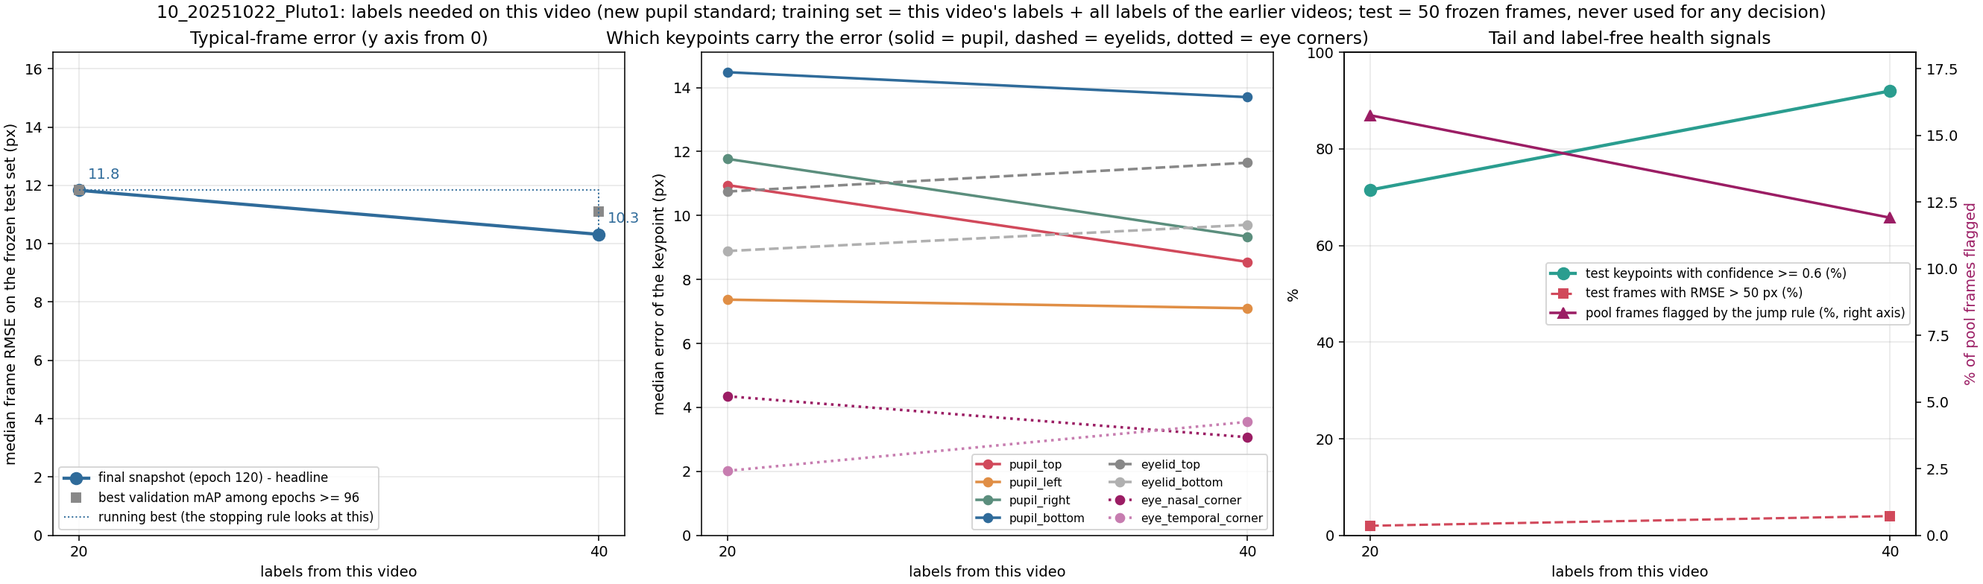
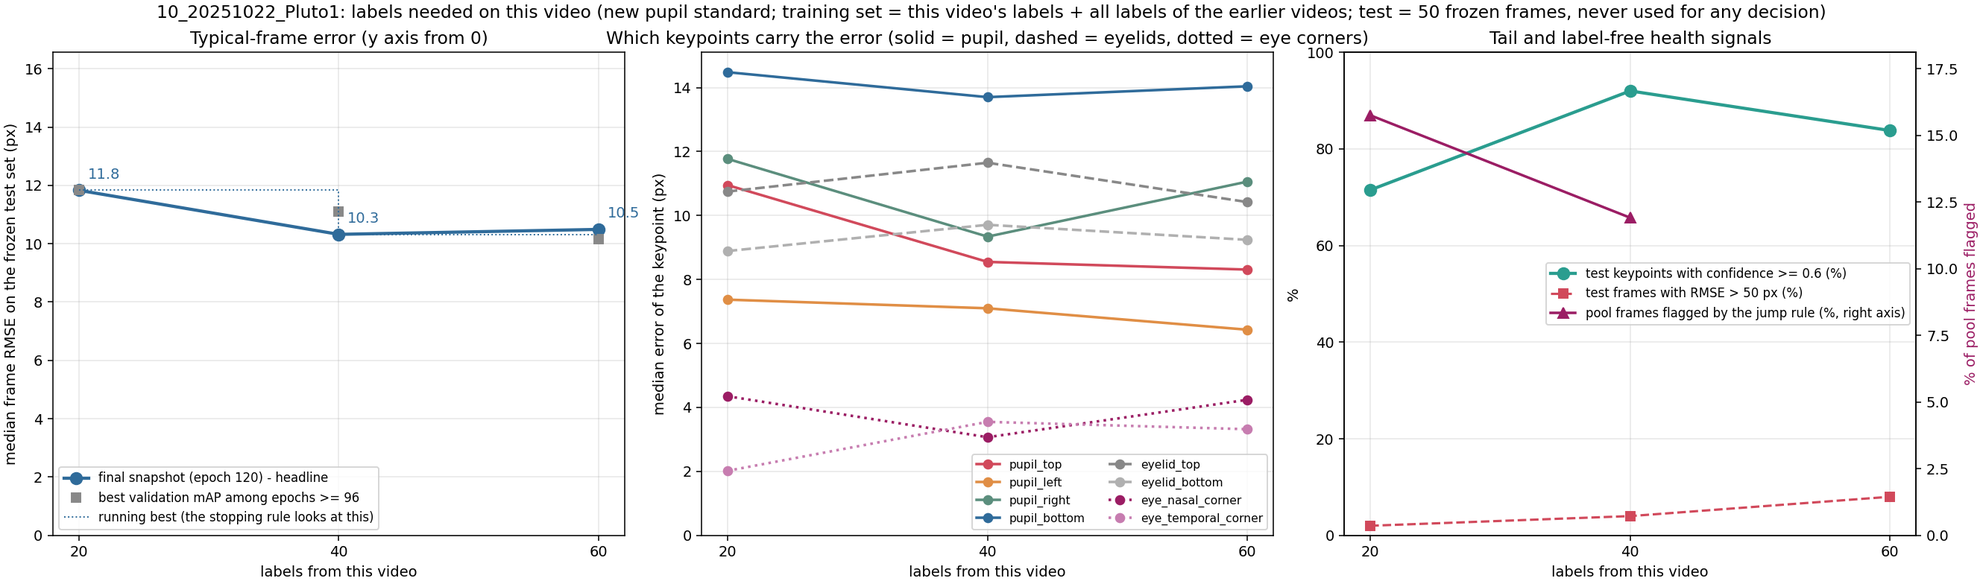
Video 10 step 3 (60 labels, model 1113): 10.49 px, no gain over 10.32 (first flat step)
Claude-Session: https://claude.ai/code/session_017MK5SWBFFQAu8ejFk1z7fh

diff --git a/report/index.html b/report/index.html
@@ -480,7 +480,7 @@ CHANGELOG.md                         one row per tag
 </div>
 
 <script>
-const DATA = {"scaling": [{"n": 20, "rmse": 38.3}, {"n": 50, "rmse": 41.9}, {"n": 100, "rmse": 55.9}], "batch": [{"batch": 2, "rmse": 21.07, "val_loss": 0.01107, "conf": 375}, {"batch": 4, "rmse": 22.28, "val_loss": 0.01112, "conf": 280}, {"batch": 8, "rmse": 23.61, "val_loss": 0.01186, "conf": 131}, {"batch": 16, "rmse": 21.37, "val_loss": 0.01136, "conf": 111}], "model": [{"model": "ResNet-50", "rmse": 20.1, "val_loss": 0.01107, "conf": 514, "hours": 1.73}, {"model": "HRNet-W32", "rmse": 21.1, "val_loss": 0.01107, "conf": 375, "hours": 3.69}, {"model": "HRNet-W48", "rmse": 24.7, "val_loss": 0.01114, "conf": 99, "hours": 6.61}, {"model": "CSPNeXt-S", "rmse": 35.4, "val_loss": 0.011, "conf": 75, "hours": 0.6}, {"model": "HRNet-W18", "rmse": 47.9, "val_loss": 0.01099, "conf": 121, "hours": 2.44}], "al": {"fitting": [{"n": 80, "rmse": 16.77}, {"n": 100, "rmse": 16.52}, {"n": 120, "rmse": 17.41}, {"n": 140, "rmse": 16.88}, {"n": 160, "rmse": 17.15}, {"n": 180, "rmse": 16.89}, {"n": 200, "rmse": 17.2}, {"n": 220, "rmse": 17.08}, {"n": 240, "rmse": 17.5}, {"n": 260, "rmse": 16.85}, {"n": 280, "rmse": 16.87}, {"n": 300, "rmse": 16.97}], "jump": [{"n": 80, "rmse": 16.77}, {"n": 100, "rmse": 16.71}, {"n": 120, "rmse": 16.25}, {"n": 140, "rmse": 15.81}, {"n": 160, "rmse": 16.5}, {"n": 180, "rmse": 16.42}, {"n": 200, "rmse": 16.33}, {"n": 220, "rmse": 15.88}, {"n": 240, "rmse": 16.41}, {"n": 260, "rmse": 17.01}, {"n": 280, "rmse": 16.5}, {"n": 300, "rmse": 16.6}], "uncertain": [{"n": 80, "rmse": 16.77}, {"n": 100, "rmse": 17.54}, {"n": 120, "rmse": 17.06}, {"n": 140, "rmse": 16.71}, {"n": 160, "rmse": 16.8}, {"n": 180, "rmse": 16.39}, {"n": 200, "rmse": 16.57}, {"n": 220, "rmse": 16.57}, {"n": 240, "rmse": 16.56}, {"n": 260, "rmse": 16.54}, {"n": 280, "rmse": 16.91}, {"n": 300, "rmse": 16.62}]}, "al_range": [15.81, 17.54], "scale": [{"n": 0, "rmse": 185.18, "p90": 249.81, "fail": 88.1, "conf": 43}, {"n": 20, "rmse": 13.83, "p90": 44.6, "fail": 10.2, "conf": 62}, {"n": 40, "rmse": 12.04, "p90": 27.58, "fail": 8.5, "conf": 70}, {"n": 60, "rmse": 10.41, "p90": 97.56, "fail": 13.6, "conf": 83}, {"n": 80, "rmse": 10.12, "p90": 28.18, "fail": 5.1, "conf": 91}, {"n": 100, "rmse": 10.72, "p90": 26.06, "fail": 6.8, "conf": 87}], "scale_seed2": [{"n": 20, "rmse": 11.67, "p90": 26.32}, {"n": 40, "rmse": 11.79, "p90": 93.47}, {"n": 60, "rmse": 10.53, "p90": 46.33}], "scale_default_rule": [{"n": 20, "rmse": 12.08, "rule": "best validation mAP -> epoch 70"}, {"n": 40, "rmse": 101.74, "rule": "best validation mAP -> epoch 20 (undertrained; pupil_left fails on 53% of test frames)"}, {"n": 60, "rmse": 12.53, "rule": "best validation mAP (best-30)"}, {"n": 80, "rmse": 10.56, "rule": "best validation mAP -> epoch 50 (best-50)"}], "flagged": [{"n": 0, "pct": 77.8, "frames": 44484}, {"n": 20, "pct": 26.4, "frames": 15064}, {"n": 40, "pct": 21.4, "frames": 12254}, {"n": 60, "pct": 19.3, "frames": 11051}, {"n": 80, "pct": 15.0, "frames": 8555}], "n_test": 59, "blink_example": {"t": [231.9, 231.917, 231.933, 231.95, 231.967, 231.983, 232.0, 232.017, 232.033, 232.05, 232.067, 232.083, 232.1, 232.117, 232.133, 232.15, 232.167, 232.183, 232.2, 232.217, 232.233, 232.25, 232.267, 232.283, 232.3, 232.317, 232.333, 232.35, 232.367, 232.383, 232.4, 232.417, 232.433, 232.45, 232.467, 232.483, 232.5, 232.517, 232.533, 232.55, 232.567, 232.583, 232.6, 232.617, 232.633, 232.65, 232.667, 232.683, 232.7, 232.717, 232.733, 232.75, 232.767, 232.783, 232.8, 232.817, 232.833, 232.85, 232.867, 232.883, 232.9, 232.917, 232.933, 232.95, 232.967, 232.983, 233.0, 233.017, 233.033, 233.05, 233.067, 233.083, 233.1, 233.117, 233.133, 233.15, 233.167, 233.183, 233.2, 233.217, 233.233, 233.25, 233.267, 233.283, 233.3, 233.317, 233.333, 233.35, 233.367, 233.383, 233.4, 233.417, 233.433, 233.45, 233.467, 233.483, 233.5, 233.517, 233.533, 233.55, 233.567, 233.583, 233.6, 233.617, 233.633, 233.65, 233.667, 233.683, 233.7, 233.717, 233.733, 233.75, 233.767, 233.783, 233.8, 233.817, 233.833, 233.85, 233.867, 233.883, 233.9, 233.917, 233.933, 233.95, 233.967, 233.983, 234.0, 234.017, 234.033, 234.05, 234.067, 234.083, 234.1, 234.117, 234.133, 234.15, 234.167, 234.183, 234.2, 234.217, 234.233, 234.25, 234.267, 234.283, 234.3, 234.317, 234.333, 234.35, 234.367, 234.383, 234.4, 234.417, 234.433, 234.45, 234.467, 234.483, 234.5, 234.517, 234.533, 234.55, 234.567, 234.583, 234.6, 234.617, 234.633, 234.65, 234.667, 234.683, 234.7, 234.717, 234.733, 234.75, 234.767, 234.783, 234.8, 234.817, 234.833, 234.85, 234.867, 234.883], "raw": [69122, 68737, 69304, 68804, 67240, 67087, 63331, 61095, 59527, 59727, 59834, 59985, 61109, 61980, 62674, 62251, 62329, 62951, 62415, 61634, 61648, 61958, 62098, 63234, 62164, 61834, 61306, 61284, 61891, 63438, 61913, 61934, 62653, 62387, 62651, 63159, 63460, 62820, 63810, 63560, 63224, 63780, 63776, 63873, 64025, 64117, 63813, 65148, 65371, 64381, 64022, 64318, 64549, 64117, 63498, 63544, 63076, 64466, 63245, 63775, 64184, 63404, 64122, 64535, 64585, 63077, 64186, 63491, 62686, 60629, 60235, 59795, 63163, 61228, 60564, 60875, 58323, 56384, 56374, 56186, 54493, 54271, 52051, 46264, 42908, 40282, 38832, 39063, 35719, 36195, 36742, 35888, 35195, 35063, 37152, 43149, 43512, 48313, 50892, 53096, 53190, 53636, 55021, 55199, 55074, 56411, 56076, 57539, 56558, 57202, 56931, 58422, 59361, 59370, 59584, 58834, 59436, 59366, 60573, 59866, 60701, 60681, 60372, 60873, 61213, 61841, 61221, 61432, 62227, 61981, 61810, 61109, 62406, 62077, 62183, 62825, 62407, 63271, 65273, 64723, 63604, 63776, 64326, 64068, 63156, 63628, 63945, 62811, 63131, 63499, 62969, 64045, 63652, 63372, 63393, 63020, 63316, 63853, 63513, 63692, 63092, 63246, 62494, 63162, 63507, 63545, 63167, 63109, 63071, 63942, 63209, 63484, 63501, 62952, 62230, 62982, 63231, 62882, 63056, 62869], "filled": [69122, 68737, 69304, 68804, 67240, 67087, 63331, 61095, 59527, 59727, 59834, 59985, 61109, 61980, 62674, 62251, 62329, 62951, 62415, 61634, 61648, 61958, 62098, 63234, 62164, 61834, 61306, 61284, 61891, 63438, 61913, 61934, 62653, 62387, 62651, 63159, 63460, 62820, 63810, 63560, 63224, 63780, 63776, 63873, 64025, 64117, 63813, 65148, 65371, 64381, 64022, 64318, 64549, 64117, 63498, 63544, 63076, 64466, 63245, 63775, 64184, 63404, 64122, 64535, 64585, 63077, 64186, 63491, 62686, 60629, 60235, 60215, 60194, 60173, 60152, 60131, 60110, 60090, 60069, 60048, 60027, 60006, 59986, 59965, 59944, 59923, 59902, 59881, 59861, 59840, 59819, 59798, 59777, 59757, 59736, 59715, 59694, 59673, 59652, 59632, 59611, 59590, 59569, 59548, 59528, 59507, 59486, 59465, 59444, 59423, 59403, 59382, 59361, 59370, 59584, 58834, 59436, 59366, 60573, 59866, 60701, 60681, 60372, 60873, 61213, 61841, 61221, 61432, 62227, 61981, 61810, 61109, 62406, 62077, 62183, 62825, 62407, 62444, 62481, 62517, 62554, 62591, 62627, 62664, 62701, 62738, 62774, 62811, 63131, 63499, 62969, 64045, 63652, 63372, 63393, 63020, 63316, 63853, 63513, 63692, 63092, 63246, 62494, 63162, 63507, 63545, 63167, 63109, 63071, 63942, 63209, 63484, 63501, 62952, 62230, 62982, 63231, 62882, 63056, 62869], "open": [0.983, 0.992, 0.997, 1.009, 1.008, 0.988, 0.991, 0.98, 0.984, 0.996, 0.989, 0.996, 1.001, 1.013, 1.017, 1.02, 1.018, 1.024, 1.019, 1.024, 1.021, 1.02, 1.022, 1.013, 1.012, 1.014, 1.004, 1.01, 1.015, 1.026, 1.011, 1.027, 1.027, 1.03, 1.027, 1.031, 1.036, 1.03, 1.028, 1.029, 1.031, 1.029, 1.025, 1.031, 1.031, 1.037, 1.033, 1.03, 1.034, 1.04, 1.038, 1.042, 1.036, 1.035, 1.031, 1.033, 1.029, 1.037, 1.027, 1.03, 1.022, 1.032, 1.032, 1.029, 1.011, 1.003, 0.999, 1.002, 0.998, 0.986, 0.98, 0.979, 0.97, 0.969, 0.947, 0.936, 0.911, 0.928, 0.931, 0.927, 0.92, 0.916, 0.871, 0.839, 0.819, 0.792, 0.751, 0.752, 0.738, 0.76, 0.779, 0.677, 0.661, 0.673, 0.667, 0.706, 0.756, 0.787, 0.919, 0.89, 0.907, 0.917, 0.92, 0.929, 0.93, 0.952, 0.952, 0.95, 0.95, 0.957, 0.958, 0.968, 0.967, 0.968, 0.966, 0.972, 0.967, 0.97, 0.985, 0.981, 0.983, 0.989, 0.99, 0.99, 0.99, 0.983, 0.994, 0.988, 0.997, 0.994, 0.996, 1.003, 0.994, 0.998, 0.996, 1.001, 0.997, 0.997, 1.0, 0.999, 1.001, 0.99, 0.997, 1.009, 0.997, 1.007, 0.998, 1.004, 1.004, 0.997, 1.008, 0.999, 1.0, 0.998, 0.998, 0.999, 1.0, 1.001, 1.0, 1.004, 0.999, 0.995, 0.999, 0.996, 1.0, 1.001, 1.0, 0.997, 1.003, 0.994, 0.999, 1.001, 1.003, 1.002, 0.999, 0.999, 0.999, 1.001, 1.001, 0.999], "bad": [false, false, false, false, false, false, false, false, false, false, false, false, false, false, false, false, false, false, false, false, false, false, false, false, false, false, false, false, false, false, false, false, false, false, false, false, false, false, false, false, false, false, false, false, false, false, false, false, false, false, false, false, false, false, false, false, false, false, false, false, false, false, false, false, false, false, false, false, false, false, false, true, true, true, true, true, true, true, true, true, true, true, true, true, true, true, true, true, true, true, true, true, true, true, true, true, true, true, true, true, true, true, true, true, true, true, true, true, true, true, true, true, false, false, false, false, false, false, false, false, false, false, false, false, false, false, false, false, false, false, false, false, false, false, false, false, false, true, true, true, true, true, true, true, true, true, true, false, false, false, false, false, false, false, false, false, false, false, false, false, false, false, false, false, false, false, false, false, false, false, false, false, false, false, false, false, false, false, false, false]}, "blink_stats": {"frames": 14400, "untrusted": 1287, "runs": 86, "longest_s": 0.9}, "keypoints_px": {"pupil_top": [51.4, 27.7], "pupil_bottom": [52.5, 71.6], "pupil_left": [29.4, 40.1], "pupil_right": [74.2, 44.9], "eyelid_top": [52.2, 21.7], "eyelid_bottom": [52.5, 78.5], "eye_nasal_corner": [21.5, 35.3], "eye_temporal_corner": [79.4, 45.1]}, "blink_strip_t": [232.77, 233.43, 234.18], "videos": [{"video": 0, "unit": "0_first5minvedio", "mouse": "mouse A", "date": "5-min", "final": true, "plateau_n": 60, "plateau_px": 12.04, "zero": null, "steps": [{"n": 20, "rmse": 12.93, "p90": 23.9, "fail": 4, "conf": 69}, {"n": 40, "rmse": 13.0, "p90": 18.6, "fail": 2, "conf": 81}, {"n": 60, "rmse": 12.04, "p90": 17.0, "fail": 0, "conf": 89}, {"n": 80, "rmse": 13.07, "p90": 19.2, "fail": 2, "conf": 90}, {"n": 100, "rmse": 12.29, "p90": 17.8, "fail": 0, "conf": 93}], "subsets": [{"n": 5, "rmse": 78.53, "p90": 273.8, "fail": 70, "conf": 13, "tag": "05a"}, {"n": 5, "rmse": 81.5, "p90": 144.6, "fail": 72, "conf": 16, "tag": "05b"}, {"n": 10, "rmse": 20.48, "p90": 189.9, "fail": 14, "conf": 44, "tag": "10a"}, {"n": 10, "rmse": 20.84, "p90": 47.1, "fail": 8, "conf": 43, "tag": "10b"}], "jump": [{"n": 20, "pct": 6.8}, {"n": 40, "pct": 3.5}, {"n": 60, "pct": 2.1}, {"n": 80, "pct": 2.8}, {"n": 100, "pct": 2.1}], "labeled": 100, "carried": 100}, {"video": 1, "unit": "1_20251031_Pluto_spont_1", "mouse": "Pluto", "date": "2025-10-31", "final": true, "plateau_n": 20, "plateau_px": 10.37, "zero": 208.23, "steps": [{"n": 20, "rmse": 10.37, "p90": 21.6, "fail": 4, "conf": 59}, {"n": 40, "rmse": 12.17, "p90": 20.3, "fail": 0, "conf": 75}, {"n": 60, "rmse": 11.35, "p90": 19.7, "fail": 2, "conf": 74}, {"n": 80, "rmse": 11.59, "p90": 19.8, "fail": 0, "conf": 82}, {"n": 100, "rmse": 10.94, "p90": 19.3, "fail": 0, "conf": 89}, {"n": 120, "rmse": 11.7, "p90": 18.4, "fail": 0, "conf": 95}, {"n": 140, "rmse": 12.09, "p90": 18.7, "fail": 0, "conf": 89}], "subsets": [{"n": 5, "rmse": 96.02, "p90": 123.4, "fail": 56, "conf": 34, "tag": "05a"}, {"n": 5, "rmse": 41.38, "p90": 221.9, "fail": 48, "conf": 15, "tag": "05b"}, {"n": 10, "rmse": 20.17, "p90": 123.5, "fail": 42, "conf": 67, "tag": "10a"}, {"n": 10, "rmse": 16.12, "p90": 168.5, "fail": 34, "conf": 39, "tag": "10b"}], "jump": [{"n": 20, "pct": 21.1}, {"n": 40, "pct": 10.9}, {"n": 60, "pct": 6.2}, {"n": 80, "pct": 6.2}, {"n": 100, "pct": 5.5}, {"n": 120, "pct": 4.4}, {"n": 140, "pct": 4.6}], "labeled": 140, "carried": 100}, {"video": 2, "unit": "2_20251031_Pluto_spont_3", "mouse": "Pluto", "date": "2025-10-31", "final": true, "plateau_n": 20, "plateau_px": 7.73, "zero": 9.99, "steps": [{"n": 20, "rmse": 7.73, "p90": 26.4, "fail": 8, "conf": 85}, {"n": 40, "rmse": 7.57, "p90": 25.1, "fail": 2, "conf": 89}, {"n": 60, "rmse": 7.83, "p90": 22.8, "fail": 8, "conf": 90}, {"n": 80, "rmse": 7.56, "p90": 19.7, "fail": 2, "conf": 92}], "subsets": [{"n": 5, "rmse": 8.22, "p90": 48.0, "fail": 10, "conf": 80, "tag": "05a"}, {"n": 5, "rmse": 11.5, "p90": 96.6, "fail": 18, "conf": 81, "tag": "05b"}, {"n": 10, "rmse": 10.46, "p90": 85.2, "fail": 22, "conf": 84, "tag": "10a"}, {"n": 10, "rmse": 9.85, "p90": 78.4, "fail": 12, "conf": 86, "tag": "10b"}], "jump": [{"n": 20, "pct": 9.3}, {"n": 40, "pct": 5.8}, {"n": 60, "pct": 5.7}], "labeled": 80, "carried": 60}, {"video": 3, "unit": "3_20251031_Pluto_spont_2", "mouse": "Pluto", "date": "2025-10-31", "final": true, "plateau_n": 20, "plateau_px": 3.4, "zero": 4.43, "steps": [{"n": 20, "rmse": 3.4, "p90": 21.3, "fail": 0, "conf": 96}, {"n": 40, "rmse": 3.87, "p90": 15.8, "fail": 0, "conf": 95}, {"n": 60, "rmse": 3.63, "p90": 10.2, "fail": 0, "conf": 96}], "subsets": [{"n": 5, "rmse": 3.82, "p90": 22.9, "fail": 0, "conf": 94, "tag": "05a"}, {"n": 5, "rmse": 3.91, "p90": 15.3, "fail": 0, "conf": 92, "tag": "05b"}, {"n": 10, "rmse": 3.81, "p90": 21.7, "fail": 0, "conf": 94, "tag": "10a"}, {"n": 10, "rmse": 3.48, "p90": 22.5, "fail": 0, "conf": 92, "tag": "10b"}], "jump": [{"n": 20, "pct": 6.4}, {"n": 40, "pct": 5.8}, {"n": 60, "pct": 6.8}], "labeled": 60, "carried": 60}, {"video": 4, "unit": "4_20251030_Pluto_spont_1", "mouse": "Pluto", "date": "2025-10-30", "final": true, "plateau_n": 40, "plateau_px": 15.01, "zero": 32.11, "steps": [{"n": 20, "rmse": 24.64, "p90": 45.1, "fail": 6, "conf": 72}, {"n": 40, "rmse": 15.01, "p90": 24.1, "fail": 2, "conf": 90}, {"n": 60, "rmse": 16.82, "p90": 25.1, "fail": 2, "conf": 79}, {"n": 80, "rmse": 17.54, "p90": 44.7, "fail": 8, "conf": 86}], "subsets": [{"n": 5, "rmse": 30.74, "p90": 50.1, "fail": 10, "conf": 85, "tag": "05a"}, {"n": 5, "rmse": 32.21, "p90": 52.0, "fail": 14, "conf": 83, "tag": "05b"}, {"n": 10, "rmse": 45.31, "p90": 62.4, "fail": 42, "conf": 81, "tag": "10a"}, {"n": 10, "rmse": 44.75, "p90": 61.5, "fail": 32, "conf": 80, "tag": "10b"}], "jump": [{"n": 20, "pct": 30.9}, {"n": 40, "pct": 12.5}, {"n": 60, "pct": 14.1}], "labeled": 80, "carried": 40}, {"video": 5, "unit": "5_20251029_Pluto_spont_1", "mouse": "Pluto", "date": "2025-10-29", "final": true, "plateau_n": 20, "plateau_px": 15.85, "zero": 11.9, "steps": [{"n": 20, "rmse": 15.85, "p90": 20.2, "fail": 0, "conf": 90}, {"n": 40, "rmse": 16.58, "p90": 22.0, "fail": 0, "conf": 91}], "subsets": [{"n": 5, "rmse": 13.04, "p90": 19.9, "fail": 0, "conf": 79, "tag": "05a"}, {"n": 5, "rmse": 9.42, "p90": 13.2, "fail": 4, "conf": 78, "tag": "05b"}, {"n": 10, "rmse": 12.56, "p90": 18.1, "fail": 0, "conf": 90, "tag": "10a"}, {"n": 10, "rmse": 12.73, "p90": 19.6, "fail": 4, "conf": 80, "tag": "10b"}], "jump": [{"n": 20, "pct": 7.6}], "labeled": 40, "carried": 20}, {"video": 6, "unit": "6_20251028_Pluto_spont_1", "mouse": "Pluto", "date": "2025-10-28", "final": true, "plateau_n": 20, "plateau_px": 6.75, "zero": 9.36, "steps": [{"n": 20, "rmse": 6.75, "p90": 11.2, "fail": 0, "conf": 83}, {"n": 40, "rmse": 8.46, "p90": 11.8, "fail": 0, "conf": 90}, {"n": 60, "rmse": 10.68, "p90": 14.9, "fail": 2, "conf": 82}], "subsets": [], "jump": [{"n": 20, "pct": 11.9}, {"n": 40, "pct": 8.7}], "labeled": 60, "carried": 20}, {"video": 7, "unit": "7_20251027_Pluto_spont1", "mouse": "Pluto", "date": "2025-10-27", "final": true, "plateau_n": 0, "plateau_px": 5.36, "zero": 5.36, "steps": [{"n": 20, "rmse": 5.86, "p90": 7.6, "fail": 0, "conf": 100}, {"n": 40, "rmse": 5.84, "p90": 8.2, "fail": 0, "conf": 100}], "subsets": [], "jump": [{"n": 20, "pct": 1.6}], "labeled": 40, "carried": 0}, {"video": 8, "unit": "8_20251024_Pluto_spont1", "mouse": "Pluto", "date": "2025-10-24", "final": true, "plateau_n": 20, "plateau_px": 25.34, "zero": 27.46, "steps": [{"n": 20, "rmse": 25.34, "p90": 50.6, "fail": 14, "conf": 68}, {"n": 40, "rmse": 30.03, "p90": 50.4, "fail": 12, "conf": 89}, {"n": 60, "rmse": 33.77, "p90": 52.0, "fail": 16, "conf": 84}], "subsets": [{"n": 5, "rmse": 31.05, "p90": 192.4, "fail": 30, "conf": 68, "tag": "05a"}, {"n": 5, "rmse": 31.48, "p90": 196.4, "fail": 28, "conf": 59, "tag": "05b"}, {"n": 10, "rmse": 23.48, "p90": 50.8, "fail": 12, "conf": 71, "tag": "10a"}, {"n": 10, "rmse": 22.42, "p90": 45.8, "fail": 6, "conf": 74, "tag": "10b"}], "jump": [{"n": 20, "pct": 17.0}, {"n": 40, "pct": 15.3}], "labeled": 60, "carried": 20}, {"video": 9, "unit": "9_20251023_Pluto1", "mouse": "Pluto", "date": "2025-10-23", "final": true, "plateau_n": 80, "plateau_px": 8.2, "zero": 23.41, "steps": [{"n": 20, "rmse": 10.39, "p90": 24.3, "fail": 8, "conf": 55}, {"n": 40, "rmse": 8.55, "p90": 19.6, "fail": 0, "conf": 86}, {"n": 60, "rmse": 8.67, "p90": 14.8, "fail": 0, "conf": 78}, {"n": 80, "rmse": 8.2, "p90": 14.8, "fail": 0, "conf": 86}, {"n": 100, "rmse": 9.39, "p90": 15.5, "fail": 0, "conf": 83}, {"n": 120, "rmse": 8.63, "p90": 15.8, "fail": 0, "conf": 90}], "subsets": [{"n": 5, "rmse": 11.74, "p90": 23.2, "fail": 6, "conf": 69, "tag": "05a"}, {"n": 5, "rmse": 12.62, "p90": 20.9, "fail": 8, "conf": 80, "tag": "05b"}, {"n": 10, "rmse": 11.55, "p90": 19.1, "fail": 0, "conf": 62, "tag": "10a"}, {"n": 10, "rmse": 11.07, "p90": 23.8, "fail": 0, "conf": 66, "tag": "10b"}], "jump": [{"n": 20, "pct": 18.1}, {"n": 40, "pct": 11.3}, {"n": 60, "pct": 10.1}, {"n": 80, "pct": 10.7}, {"n": 100, "pct": 9.1}, {"n": 120, "pct": 8.3}], "labeled": 120, "carried": 80}, {"video": 10, "unit": "10_20251022_Pluto1", "mouse": "Pluto", "date": "2025-10-22", "final": false, "plateau_n": 40, "plateau_px": 10.32, "zero": 18.13, "steps": [{"n": 20, "rmse": 11.83, "p90": 27.7, "fail": 2, "conf": 72}, {"n": 40, "rmse": 10.32, "p90": 26.1, "fail": 4, "conf": 92}], "subsets": [], "jump": [{"n": 20, "pct": 15.8}, {"n": 40, "pct": 11.9}], "labeled": 40, "carried": null}], "area": [{"video": "0 (mouse A)", "e3": 6.5, "e4": 2.2, "anchored": false}, {"video": "1 (10-31)", "e3": 6.7, "e4": 6.2, "anchored": false}, {"video": "2 (10-31)", "e3": 3.1, "e4": 4.4, "anchored": false}, {"video": "3 (10-31)", "e3": 12.8, "e4": 3.2, "anchored": false}, {"video": "4 (10-30, poor)", "e3": 16.9, "e4": 13.5, "anchored": false}, {"video": "5 (10-29)", "e3": 2.5, "e4": 1.9, "anchored": true}, {"video": "6 (10-28)", "e3": 9.9, "e4": 1.6, "anchored": true}, {"video": "7 (10-27)", "e3": 3.3, "e4": 0.2, "anchored": true}], "blink3": {"closed": 16, "open": 687, "auc": {"min_conf": 1.0, "open_rel": 0.94, "centre_off": 0.92, "lid_rel": 0.9, "aspect": 0.36}, "hit": 1.0, "false_alarm": 0.55}, "coupling": [0.69, 0.94], "built": "2026-10-02", "label_px": {"pupil_top": [66.7, 44.4], "pupil_bottom": [66.2, 79.4], "pupil_left": [50.1, 60.1], "pupil_right": [81.1, 63.6], "eyelid_top": [67.6, 47.1], "eyelid_bottom": [65.9, 83.7], "eye_nasal_corner": [39.4, 51.3], "eye_temporal_corner": [90.4, 65.2]}};
+const DATA = {"scaling": [{"n": 20, "rmse": 38.3}, {"n": 50, "rmse": 41.9}, {"n": 100, "rmse": 55.9}], "batch": [{"batch": 2, "rmse": 21.07, "val_loss": 0.01107, "conf": 375}, {"batch": 4, "rmse": 22.28, "val_loss": 0.01112, "conf": 280}, {"batch": 8, "rmse": 23.61, "val_loss": 0.01186, "conf": 131}, {"batch": 16, "rmse": 21.37, "val_loss": 0.01136, "conf": 111}], "model": [{"model": "ResNet-50", "rmse": 20.1, "val_loss": 0.01107, "conf": 514, "hours": 1.73}, {"model": "HRNet-W32", "rmse": 21.1, "val_loss": 0.01107, "conf": 375, "hours": 3.69}, {"model": "HRNet-W48", "rmse": 24.7, "val_loss": 0.01114, "conf": 99, "hours": 6.61}, {"model": "CSPNeXt-S", "rmse": 35.4, "val_loss": 0.011, "conf": 75, "hours": 0.6}, {"model": "HRNet-W18", "rmse": 47.9, "val_loss": 0.01099, "conf": 121, "hours": 2.44}], "al": {"fitting": [{"n": 80, "rmse": 16.77}, {"n": 100, "rmse": 16.52}, {"n": 120, "rmse": 17.41}, {"n": 140, "rmse": 16.88}, {"n": 160, "rmse": 17.15}, {"n": 180, "rmse": 16.89}, {"n": 200, "rmse": 17.2}, {"n": 220, "rmse": 17.08}, {"n": 240, "rmse": 17.5}, {"n": 260, "rmse": 16.85}, {"n": 280, "rmse": 16.87}, {"n": 300, "rmse": 16.97}], "jump": [{"n": 80, "rmse": 16.77}, {"n": 100, "rmse": 16.71}, {"n": 120, "rmse": 16.25}, {"n": 140, "rmse": 15.81}, {"n": 160, "rmse": 16.5}, {"n": 180, "rmse": 16.42}, {"n": 200, "rmse": 16.33}, {"n": 220, "rmse": 15.88}, {"n": 240, "rmse": 16.41}, {"n": 260, "rmse": 17.01}, {"n": 280, "rmse": 16.5}, {"n": 300, "rmse": 16.6}], "uncertain": [{"n": 80, "rmse": 16.77}, {"n": 100, "rmse": 17.54}, {"n": 120, "rmse": 17.06}, {"n": 140, "rmse": 16.71}, {"n": 160, "rmse": 16.8}, {"n": 180, "rmse": 16.39}, {"n": 200, "rmse": 16.57}, {"n": 220, "rmse": 16.57}, {"n": 240, "rmse": 16.56}, {"n": 260, "rmse": 16.54}, {"n": 280, "rmse": 16.91}, {"n": 300, "rmse": 16.62}]}, "al_range": [15.81, 17.54], "scale": [{"n": 0, "rmse": 185.18, "p90": 249.81, "fail": 88.1, "conf": 43}, {"n": 20, "rmse": 13.83, "p90": 44.6, "fail": 10.2, "conf": 62}, {"n": 40, "rmse": 12.04, "p90": 27.58, "fail": 8.5, "conf": 70}, {"n": 60, "rmse": 10.41, "p90": 97.56, "fail": 13.6, "conf": 83}, {"n": 80, "rmse": 10.12, "p90": 28.18, "fail": 5.1, "conf": 91}, {"n": 100, "rmse": 10.72, "p90": 26.06, "fail": 6.8, "conf": 87}], "scale_seed2": [{"n": 20, "rmse": 11.67, "p90": 26.32}, {"n": 40, "rmse": 11.79, "p90": 93.47}, {"n": 60, "rmse": 10.53, "p90": 46.33}], "scale_default_rule": [{"n": 20, "rmse": 12.08, "rule": "best validation mAP -> epoch 70"}, {"n": 40, "rmse": 101.74, "rule": "best validation mAP -> epoch 20 (undertrained; pupil_left fails on 53% of test frames)"}, {"n": 60, "rmse": 12.53, "rule": "best validation mAP (best-30)"}, {"n": 80, "rmse": 10.56, "rule": "best validation mAP -> epoch 50 (best-50)"}], "flagged": [{"n": 0, "pct": 77.8, "frames": 44484}, {"n": 20, "pct": 26.4, "frames": 15064}, {"n": 40, "pct": 21.4, "frames": 12254}, {"n": 60, "pct": 19.3, "frames": 11051}, {"n": 80, "pct": 15.0, "frames": 8555}], "n_test": 59, "blink_example": {"t": [231.9, 231.917, 231.933, 231.95, 231.967, 231.983, 232.0, 232.017, 232.033, 232.05, 232.067, 232.083, 232.1, 232.117, 232.133, 232.15, 232.167, 232.183, 232.2, 232.217, 232.233, 232.25, 232.267, 232.283, 232.3, 232.317, 232.333, 232.35, 232.367, 232.383, 232.4, 232.417, 232.433, 232.45, 232.467, 232.483, 232.5, 232.517, 232.533, 232.55, 232.567, 232.583, 232.6, 232.617, 232.633, 232.65, 232.667, 232.683, 232.7, 232.717, 232.733, 232.75, 232.767, 232.783, 232.8, 232.817, 232.833, 232.85, 232.867, 232.883, 232.9, 232.917, 232.933, 232.95, 232.967, 232.983, 233.0, 233.017, 233.033, 233.05, 233.067, 233.083, 233.1, 233.117, 233.133, 233.15, 233.167, 233.183, 233.2, 233.217, 233.233, 233.25, 233.267, 233.283, 233.3, 233.317, 233.333, 233.35, 233.367, 233.383, 233.4, 233.417, 233.433, 233.45, 233.467, 233.483, 233.5, 233.517, 233.533, 233.55, 233.567, 233.583, 233.6, 233.617, 233.633, 233.65, 233.667, 233.683, 233.7, 233.717, 233.733, 233.75, 233.767, 233.783, 233.8, 233.817, 233.833, 233.85, 233.867, 233.883, 233.9, 233.917, 233.933, 233.95, 233.967, 233.983, 234.0, 234.017, 234.033, 234.05, 234.067, 234.083, 234.1, 234.117, 234.133, 234.15, 234.167, 234.183, 234.2, 234.217, 234.233, 234.25, 234.267, 234.283, 234.3, 234.317, 234.333, 234.35, 234.367, 234.383, 234.4, 234.417, 234.433, 234.45, 234.467, 234.483, 234.5, 234.517, 234.533, 234.55, 234.567, 234.583, 234.6, 234.617, 234.633, 234.65, 234.667, 234.683, 234.7, 234.717, 234.733, 234.75, 234.767, 234.783, 234.8, 234.817, 234.833, 234.85, 234.867, 234.883], "raw": [69122, 68737, 69304, 68804, 67240, 67087, 63331, 61095, 59527, 59727, 59834, 59985, 61109, 61980, 62674, 62251, 62329, 62951, 62415, 61634, 61648, 61958, 62098, 63234, 62164, 61834, 61306, 61284, 61891, 63438, 61913, 61934, 62653, 62387, 62651, 63159, 63460, 62820, 63810, 63560, 63224, 63780, 63776, 63873, 64025, 64117, 63813, 65148, 65371, 64381, 64022, 64318, 64549, 64117, 63498, 63544, 63076, 64466, 63245, 63775, 64184, 63404, 64122, 64535, 64585, 63077, 64186, 63491, 62686, 60629, 60235, 59795, 63163, 61228, 60564, 60875, 58323, 56384, 56374, 56186, 54493, 54271, 52051, 46264, 42908, 40282, 38832, 39063, 35719, 36195, 36742, 35888, 35195, 35063, 37152, 43149, 43512, 48313, 50892, 53096, 53190, 53636, 55021, 55199, 55074, 56411, 56076, 57539, 56558, 57202, 56931, 58422, 59361, 59370, 59584, 58834, 59436, 59366, 60573, 59866, 60701, 60681, 60372, 60873, 61213, 61841, 61221, 61432, 62227, 61981, 61810, 61109, 62406, 62077, 62183, 62825, 62407, 63271, 65273, 64723, 63604, 63776, 64326, 64068, 63156, 63628, 63945, 62811, 63131, 63499, 62969, 64045, 63652, 63372, 63393, 63020, 63316, 63853, 63513, 63692, 63092, 63246, 62494, 63162, 63507, 63545, 63167, 63109, 63071, 63942, 63209, 63484, 63501, 62952, 62230, 62982, 63231, 62882, 63056, 62869], "filled": [69122, 68737, 69304, 68804, 67240, 67087, 63331, 61095, 59527, 59727, 59834, 59985, 61109, 61980, 62674, 62251, 62329, 62951, 62415, 61634, 61648, 61958, 62098, 63234, 62164, 61834, 61306, 61284, 61891, 63438, 61913, 61934, 62653, 62387, 62651, 63159, 63460, 62820, 63810, 63560, 63224, 63780, 63776, 63873, 64025, 64117, 63813, 65148, 65371, 64381, 64022, 64318, 64549, 64117, 63498, 63544, 63076, 64466, 63245, 63775, 64184, 63404, 64122, 64535, 64585, 63077, 64186, 63491, 62686, 60629, 60235, 60215, 60194, 60173, 60152, 60131, 60110, 60090, 60069, 60048, 60027, 60006, 59986, 59965, 59944, 59923, 59902, 59881, 59861, 59840, 59819, 59798, 59777, 59757, 59736, 59715, 59694, 59673, 59652, 59632, 59611, 59590, 59569, 59548, 59528, 59507, 59486, 59465, 59444, 59423, 59403, 59382, 59361, 59370, 59584, 58834, 59436, 59366, 60573, 59866, 60701, 60681, 60372, 60873, 61213, 61841, 61221, 61432, 62227, 61981, 61810, 61109, 62406, 62077, 62183, 62825, 62407, 62444, 62481, 62517, 62554, 62591, 62627, 62664, 62701, 62738, 62774, 62811, 63131, 63499, 62969, 64045, 63652, 63372, 63393, 63020, 63316, 63853, 63513, 63692, 63092, 63246, 62494, 63162, 63507, 63545, 63167, 63109, 63071, 63942, 63209, 63484, 63501, 62952, 62230, 62982, 63231, 62882, 63056, 62869], "open": [0.983, 0.992, 0.997, 1.009, 1.008, 0.988, 0.991, 0.98, 0.984, 0.996, 0.989, 0.996, 1.001, 1.013, 1.017, 1.02, 1.018, 1.024, 1.019, 1.024, 1.021, 1.02, 1.022, 1.013, 1.012, 1.014, 1.004, 1.01, 1.015, 1.026, 1.011, 1.027, 1.027, 1.03, 1.027, 1.031, 1.036, 1.03, 1.028, 1.029, 1.031, 1.029, 1.025, 1.031, 1.031, 1.037, 1.033, 1.03, 1.034, 1.04, 1.038, 1.042, 1.036, 1.035, 1.031, 1.033, 1.029, 1.037, 1.027, 1.03, 1.022, 1.032, 1.032, 1.029, 1.011, 1.003, 0.999, 1.002, 0.998, 0.986, 0.98, 0.979, 0.97, 0.969, 0.947, 0.936, 0.911, 0.928, 0.931, 0.927, 0.92, 0.916, 0.871, 0.839, 0.819, 0.792, 0.751, 0.752, 0.738, 0.76, 0.779, 0.677, 0.661, 0.673, 0.667, 0.706, 0.756, 0.787, 0.919, 0.89, 0.907, 0.917, 0.92, 0.929, 0.93, 0.952, 0.952, 0.95, 0.95, 0.957, 0.958, 0.968, 0.967, 0.968, 0.966, 0.972, 0.967, 0.97, 0.985, 0.981, 0.983, 0.989, 0.99, 0.99, 0.99, 0.983, 0.994, 0.988, 0.997, 0.994, 0.996, 1.003, 0.994, 0.998, 0.996, 1.001, 0.997, 0.997, 1.0, 0.999, 1.001, 0.99, 0.997, 1.009, 0.997, 1.007, 0.998, 1.004, 1.004, 0.997, 1.008, 0.999, 1.0, 0.998, 0.998, 0.999, 1.0, 1.001, 1.0, 1.004, 0.999, 0.995, 0.999, 0.996, 1.0, 1.001, 1.0, 0.997, 1.003, 0.994, 0.999, 1.001, 1.003, 1.002, 0.999, 0.999, 0.999, 1.001, 1.001, 0.999], "bad": [false, false, false, false, false, false, false, false, false, false, false, false, false, false, false, false, false, false, false, false, false, false, false, false, false, false, false, false, false, false, false, false, false, false, false, false, false, false, false, false, false, false, false, false, false, false, false, false, false, false, false, false, false, false, false, false, false, false, false, false, false, false, false, false, false, false, false, false, false, false, false, true, true, true, true, true, true, true, true, true, true, true, true, true, true, true, true, true, true, true, true, true, true, true, true, true, true, true, true, true, true, true, true, true, true, true, true, true, true, true, true, true, false, false, false, false, false, false, false, false, false, false, false, false, false, false, false, false, false, false, false, false, false, false, false, false, false, true, true, true, true, true, true, true, true, true, true, false, false, false, false, false, false, false, false, false, false, false, false, false, false, false, false, false, false, false, false, false, false, false, false, false, false, false, false, false, false, false, false, false]}, "blink_stats": {"frames": 14400, "untrusted": 1287, "runs": 86, "longest_s": 0.9}, "keypoints_px": {"pupil_top": [51.4, 27.7], "pupil_bottom": [52.5, 71.6], "pupil_left": [29.4, 40.1], "pupil_right": [74.2, 44.9], "eyelid_top": [52.2, 21.7], "eyelid_bottom": [52.5, 78.5], "eye_nasal_corner": [21.5, 35.3], "eye_temporal_corner": [79.4, 45.1]}, "blink_strip_t": [232.77, 233.43, 234.18], "videos": [{"video": 0, "unit": "0_first5minvedio", "mouse": "mouse A", "date": "5-min", "final": true, "plateau_n": 60, "plateau_px": 12.04, "zero": null, "steps": [{"n": 20, "rmse": 12.93, "p90": 23.9, "fail": 4, "conf": 69}, {"n": 40, "rmse": 13.0, "p90": 18.6, "fail": 2, "conf": 81}, {"n": 60, "rmse": 12.04, "p90": 17.0, "fail": 0, "conf": 89}, {"n": 80, "rmse": 13.07, "p90": 19.2, "fail": 2, "conf": 90}, {"n": 100, "rmse": 12.29, "p90": 17.8, "fail": 0, "conf": 93}], "subsets": [{"n": 5, "rmse": 78.53, "p90": 273.8, "fail": 70, "conf": 13, "tag": "05a"}, {"n": 5, "rmse": 81.5, "p90": 144.6, "fail": 72, "conf": 16, "tag": "05b"}, {"n": 10, "rmse": 20.48, "p90": 189.9, "fail": 14, "conf": 44, "tag": "10a"}, {"n": 10, "rmse": 20.84, "p90": 47.1, "fail": 8, "conf": 43, "tag": "10b"}], "jump": [{"n": 20, "pct": 6.8}, {"n": 40, "pct": 3.5}, {"n": 60, "pct": 2.1}, {"n": 80, "pct": 2.8}, {"n": 100, "pct": 2.1}], "labeled": 100, "carried": 100}, {"video": 1, "unit": "1_20251031_Pluto_spont_1", "mouse": "Pluto", "date": "2025-10-31", "final": true, "plateau_n": 20, "plateau_px": 10.37, "zero": 208.23, "steps": [{"n": 20, "rmse": 10.37, "p90": 21.6, "fail": 4, "conf": 59}, {"n": 40, "rmse": 12.17, "p90": 20.3, "fail": 0, "conf": 75}, {"n": 60, "rmse": 11.35, "p90": 19.7, "fail": 2, "conf": 74}, {"n": 80, "rmse": 11.59, "p90": 19.8, "fail": 0, "conf": 82}, {"n": 100, "rmse": 10.94, "p90": 19.3, "fail": 0, "conf": 89}, {"n": 120, "rmse": 11.7, "p90": 18.4, "fail": 0, "conf": 95}, {"n": 140, "rmse": 12.09, "p90": 18.7, "fail": 0, "conf": 89}], "subsets": [{"n": 5, "rmse": 96.02, "p90": 123.4, "fail": 56, "conf": 34, "tag": "05a"}, {"n": 5, "rmse": 41.38, "p90": 221.9, "fail": 48, "conf": 15, "tag": "05b"}, {"n": 10, "rmse": 20.17, "p90": 123.5, "fail": 42, "conf": 67, "tag": "10a"}, {"n": 10, "rmse": 16.12, "p90": 168.5, "fail": 34, "conf": 39, "tag": "10b"}], "jump": [{"n": 20, "pct": 21.1}, {"n": 40, "pct": 10.9}, {"n": 60, "pct": 6.2}, {"n": 80, "pct": 6.2}, {"n": 100, "pct": 5.5}, {"n": 120, "pct": 4.4}, {"n": 140, "pct": 4.6}], "labeled": 140, "carried": 100}, {"video": 2, "unit": "2_20251031_Pluto_spont_3", "mouse": "Pluto", "date": "2025-10-31", "final": true, "plateau_n": 20, "plateau_px": 7.73, "zero": 9.99, "steps": [{"n": 20, "rmse": 7.73, "p90": 26.4, "fail": 8, "conf": 85}, {"n": 40, "rmse": 7.57, "p90": 25.1, "fail": 2, "conf": 89}, {"n": 60, "rmse": 7.83, "p90": 22.8, "fail": 8, "conf": 90}, {"n": 80, "rmse": 7.56, "p90": 19.7, "fail": 2, "conf": 92}], "subsets": [{"n": 5, "rmse": 8.22, "p90": 48.0, "fail": 10, "conf": 80, "tag": "05a"}, {"n": 5, "rmse": 11.5, "p90": 96.6, "fail": 18, "conf": 81, "tag": "05b"}, {"n": 10, "rmse": 10.46, "p90": 85.2, "fail": 22, "conf": 84, "tag": "10a"}, {"n": 10, "rmse": 9.85, "p90": 78.4, "fail": 12, "conf": 86, "tag": "10b"}], "jump": [{"n": 20, "pct": 9.3}, {"n": 40, "pct": 5.8}, {"n": 60, "pct": 5.7}], "labeled": 80, "carried": 60}, {"video": 3, "unit": "3_20251031_Pluto_spont_2", "mouse": "Pluto", "date": "2025-10-31", "final": true, "plateau_n": 20, "plateau_px": 3.4, "zero": 4.43, "steps": [{"n": 20, "rmse": 3.4, "p90": 21.3, "fail": 0, "conf": 96}, {"n": 40, "rmse": 3.87, "p90": 15.8, "fail": 0, "conf": 95}, {"n": 60, "rmse": 3.63, "p90": 10.2, "fail": 0, "conf": 96}], "subsets": [{"n": 5, "rmse": 3.82, "p90": 22.9, "fail": 0, "conf": 94, "tag": "05a"}, {"n": 5, "rmse": 3.91, "p90": 15.3, "fail": 0, "conf": 92, "tag": "05b"}, {"n": 10, "rmse": 3.81, "p90": 21.7, "fail": 0, "conf": 94, "tag": "10a"}, {"n": 10, "rmse": 3.48, "p90": 22.5, "fail": 0, "conf": 92, "tag": "10b"}], "jump": [{"n": 20, "pct": 6.4}, {"n": 40, "pct": 5.8}, {"n": 60, "pct": 6.8}], "labeled": 60, "carried": 60}, {"video": 4, "unit": "4_20251030_Pluto_spont_1", "mouse": "Pluto", "date": "2025-10-30", "final": true, "plateau_n": 40, "plateau_px": 15.01, "zero": 32.11, "steps": [{"n": 20, "rmse": 24.64, "p90": 45.1, "fail": 6, "conf": 72}, {"n": 40, "rmse": 15.01, "p90": 24.1, "fail": 2, "conf": 90}, {"n": 60, "rmse": 16.82, "p90": 25.1, "fail": 2, "conf": 79}, {"n": 80, "rmse": 17.54, "p90": 44.7, "fail": 8, "conf": 86}], "subsets": [{"n": 5, "rmse": 30.74, "p90": 50.1, "fail": 10, "conf": 85, "tag": "05a"}, {"n": 5, "rmse": 32.21, "p90": 52.0, "fail": 14, "conf": 83, "tag": "05b"}, {"n": 10, "rmse": 45.31, "p90": 62.4, "fail": 42, "conf": 81, "tag": "10a"}, {"n": 10, "rmse": 44.75, "p90": 61.5, "fail": 32, "conf": 80, "tag": "10b"}], "jump": [{"n": 20, "pct": 30.9}, {"n": 40, "pct": 12.5}, {"n": 60, "pct": 14.1}], "labeled": 80, "carried": 40}, {"video": 5, "unit": "5_20251029_Pluto_spont_1", "mouse": "Pluto", "date": "2025-10-29", "final": true, "plateau_n": 20, "plateau_px": 15.85, "zero": 11.9, "steps": [{"n": 20, "rmse": 15.85, "p90": 20.2, "fail": 0, "conf": 90}, {"n": 40, "rmse": 16.58, "p90": 22.0, "fail": 0, "conf": 91}], "subsets": [{"n": 5, "rmse": 13.04, "p90": 19.9, "fail": 0, "conf": 79, "tag": "05a"}, {"n": 5, "rmse": 9.42, "p90": 13.2, "fail": 4, "conf": 78, "tag": "05b"}, {"n": 10, "rmse": 12.56, "p90": 18.1, "fail": 0, "conf": 90, "tag": "10a"}, {"n": 10, "rmse": 12.73, "p90": 19.6, "fail": 4, "conf": 80, "tag": "10b"}], "jump": [{"n": 20, "pct": 7.6}], "labeled": 40, "carried": 20}, {"video": 6, "unit": "6_20251028_Pluto_spont_1", "mouse": "Pluto", "date": "2025-10-28", "final": true, "plateau_n": 20, "plateau_px": 6.75, "zero": 9.36, "steps": [{"n": 20, "rmse": 6.75, "p90": 11.2, "fail": 0, "conf": 83}, {"n": 40, "rmse": 8.46, "p90": 11.8, "fail": 0, "conf": 90}, {"n": 60, "rmse": 10.68, "p90": 14.9, "fail": 2, "conf": 82}], "subsets": [], "jump": [{"n": 20, "pct": 11.9}, {"n": 40, "pct": 8.7}], "labeled": 60, "carried": 20}, {"video": 7, "unit": "7_20251027_Pluto_spont1", "mouse": "Pluto", "date": "2025-10-27", "final": true, "plateau_n": 0, "plateau_px": 5.36, "zero": 5.36, "steps": [{"n": 20, "rmse": 5.86, "p90": 7.6, "fail": 0, "conf": 100}, {"n": 40, "rmse": 5.84, "p90": 8.2, "fail": 0, "conf": 100}], "subsets": [], "jump": [{"n": 20, "pct": 1.6}], "labeled": 40, "carried": 0}, {"video": 8, "unit": "8_20251024_Pluto_spont1", "mouse": "Pluto", "date": "2025-10-24", "final": true, "plateau_n": 20, "plateau_px": 25.34, "zero": 27.46, "steps": [{"n": 20, "rmse": 25.34, "p90": 50.6, "fail": 14, "conf": 68}, {"n": 40, "rmse": 30.03, "p90": 50.4, "fail": 12, "conf": 89}, {"n": 60, "rmse": 33.77, "p90": 52.0, "fail": 16, "conf": 84}], "subsets": [{"n": 5, "rmse": 31.05, "p90": 192.4, "fail": 30, "conf": 68, "tag": "05a"}, {"n": 5, "rmse": 31.48, "p90": 196.4, "fail": 28, "conf": 59, "tag": "05b"}, {"n": 10, "rmse": 23.48, "p90": 50.8, "fail": 12, "conf": 71, "tag": "10a"}, {"n": 10, "rmse": 22.42, "p90": 45.8, "fail": 6, "conf": 74, "tag": "10b"}], "jump": [{"n": 20, "pct": 17.0}, {"n": 40, "pct": 15.3}], "labeled": 60, "carried": 20}, {"video": 9, "unit": "9_20251023_Pluto1", "mouse": "Pluto", "date": "2025-10-23", "final": true, "plateau_n": 80, "plateau_px": 8.2, "zero": 23.41, "steps": [{"n": 20, "rmse": 10.39, "p90": 24.3, "fail": 8, "conf": 55}, {"n": 40, "rmse": 8.55, "p90": 19.6, "fail": 0, "conf": 86}, {"n": 60, "rmse": 8.67, "p90": 14.8, "fail": 0, "conf": 78}, {"n": 80, "rmse": 8.2, "p90": 14.8, "fail": 0, "conf": 86}, {"n": 100, "rmse": 9.39, "p90": 15.5, "fail": 0, "conf": 83}, {"n": 120, "rmse": 8.63, "p90": 15.8, "fail": 0, "conf": 90}], "subsets": [{"n": 5, "rmse": 11.74, "p90": 23.2, "fail": 6, "conf": 69, "tag": "05a"}, {"n": 5, "rmse": 12.62, "p90": 20.9, "fail": 8, "conf": 80, "tag": "05b"}, {"n": 10, "rmse": 11.55, "p90": 19.1, "fail": 0, "conf": 62, "tag": "10a"}, {"n": 10, "rmse": 11.07, "p90": 23.8, "fail": 0, "conf": 66, "tag": "10b"}], "jump": [{"n": 20, "pct": 18.1}, {"n": 40, "pct": 11.3}, {"n": 60, "pct": 10.1}, {"n": 80, "pct": 10.7}, {"n": 100, "pct": 9.1}, {"n": 120, "pct": 8.3}], "labeled": 120, "carried": 80}, {"video": 10, "unit": "10_20251022_Pluto1", "mouse": "Pluto", "date": "2025-10-22", "final": false, "plateau_n": 40, "plateau_px": 10.32, "zero": 18.13, "steps": [{"n": 20, "rmse": 11.83, "p90": 27.7, "fail": 2, "conf": 72}, {"n": 40, "rmse": 10.32, "p90": 26.1, "fail": 4, "conf": 92}, {"n": 60, "rmse": 10.49, "p90": 27.2, "fail": 8, "conf": 84}], "subsets": [], "jump": [{"n": 20, "pct": 15.8}, {"n": 40, "pct": 11.9}], "labeled": 60, "carried": null}], "area": [{"video": "0 (mouse A)", "e3": 6.5, "e4": 2.2, "anchored": false}, {"video": "1 (10-31)", "e3": 6.7, "e4": 6.2, "anchored": false}, {"video": "2 (10-31)", "e3": 3.1, "e4": 4.4, "anchored": false}, {"video": "3 (10-31)", "e3": 12.8, "e4": 3.2, "anchored": false}, {"video": "4 (10-30, poor)", "e3": 16.9, "e4": 13.5, "anchored": false}, {"video": "5 (10-29)", "e3": 2.5, "e4": 1.9, "anchored": true}, {"video": "6 (10-28)", "e3": 9.9, "e4": 1.6, "anchored": true}, {"video": "7 (10-27)", "e3": 3.3, "e4": 0.2, "anchored": true}], "blink3": {"closed": 16, "open": 687, "auc": {"min_conf": 1.0, "open_rel": 0.94, "centre_off": 0.92, "lid_rel": 0.9, "aspect": 0.36}, "hit": 1.0, "false_alarm": 0.55}, "coupling": [0.69, 0.94], "built": "2026-10-02", "label_px": {"pupil_top": [66.7, 44.4], "pupil_bottom": [66.2, 79.4], "pupil_left": [50.1, 60.1], "pupil_right": [81.1, 63.6], "eyelid_top": [67.6, 47.1], "eyelid_bottom": [65.9, 83.7], "eye_nasal_corner": [39.4, 51.3], "eye_temporal_corner": [90.4, 65.2]}};
 (function(){
   var root=document.documentElement, L='zh';
   try{var s=localStorage.getItem('report-lang'); if(s==='en'||s==='zh') L=s;}catch(e){}

diff --git a/README.md b/README.md
@@ -8,7 +8,7 @@ how many human labels are needed, and how few frames must a person correct, befo
 Zhiheng Li (University of Minnesota), with Kaiwen Sheng (Stanford). Raw videos, frames, labels, model weights and
 per-frame predictions stay local; git carries code, documentation and audited aggregate results.
 
-## Status (last updated 2026-10-02 11:35 CDT)
+## Status (last updated 2026-10-02 16:25 CDT)
 
 | what | state |
 |---|---|
@@ -23,7 +23,7 @@ per-frame predictions stay local; git carries code, documentation and audited ag
 | Finished | **video 8** (Pluto, 2025-10-24, v2 line): test set relabeled under v2 and frozen; 0 labels (video-6 model 711) = 27.46 px, 20 labels = 25.34 px, 40 labels = 30.03 px (p90 ~50, 12-14% of frames > 50 px - a hard day, 3 days after video 7); 60 labels = 33.77 px: finished at **20 labels, 25.34 px** (rule fired at 60; 12-16% of frames > 50 px at every step - this day is hard). |
 | Finished | **video 9** (Pluto, 2025-10-23, v2 line): test50 / val20 / batch01 labeled from model-711 pre-labels; 0 labels (model 711) = 23.41 px, 20 labels = 10.39 px, 40 labels = 8.55 px, 60 labels = 8.67 px (p90 14.8; no gain on the median), 80 labels = 8.20 px (p90 14.8; 4.1% better than 8.55), 100 labels = 9.39 px (p90 15.5), 120 labels = 8.63 px (p90 15.8): the plateau rule fired at 120 (two steps without a gain on 8.20), finished at **80 labels, 8.20 px** (user decision 2026-10-01). Cross-video curves now also show the 5 / 10-label subset models (open markers) |
 | Blink / area analysis | per-video time series in `<video>/results/blink_area_analysis/`; across videos (`v2_new_pupil_top_video_scaling/results/blink_area_consistency.png`): 4-point area better on 7 of 8 test sets; lowest pupil confidence < ~0.2 separates all 16 human closed-eye frames (the production 0.6 cut flags ~half of open frames); area correlates with eye opening in every video |
-| In progress | **video 10** (Pluto, 2025-10-22, the last Pluto video of the sequence): test50 / val20 / batch01 pre-labeled with the video-9 80-label model (1014) and corrected by the labeler (test50: 234 of 400 points moved), test set frozen; 0 labels (model 1014) = 18.13 px (p90 32.0, 8% of frames > 50 px), 20 labels = 11.83 px (p90 27.7, 2% > 50 px), 40 labels = 10.32 px (p90 26.1, 92% of keypoints with confidence >= 0.6); batch03 being selected |
+| In progress | **video 10** (Pluto, 2025-10-22, the last Pluto video of the sequence): test50 / val20 / batch01 pre-labeled with the video-9 80-label model (1014) and corrected by the labeler (test50: 234 of 400 points moved), test set frozen; 0 labels (model 1014) = 18.13 px (p90 32.0, 8% of frames > 50 px), 20 labels = 11.83 px (p90 27.7, 2% > 50 px), 40 labels = 10.32 px (p90 26.1, 92% of keypoints with confidence >= 0.6), 60 labels = 10.49 px (p90 27.2, 8% > 50 px; no gain over 10.32, the first of the two flat steps the plateau rule needs); batch04 being selected |
 | Next | Terra (mouse C), units 11-18, one recording day each, newest first |
 
 ## Main results so far (era 3, `v2_new_pupil_top_video_scaling/`)
@@ -42,7 +42,7 @@ Labels needed per video (plateau = two consecutive 20-label steps that improve t
 | 7 | Pluto, 2025-10-27 | 400 | 5.36 / 5.86 / 5.84 px (v2) | 0 labels, 5.36 px (rule fired at 40) |
 | 8 | Pluto, 2025-10-24 | 400 | 27.46 / 25.34 / 30.03 / 33.77 px (v2) | 20 labels, 25.3 px (rule fired at 60) |
 | 9 | Pluto, 2025-10-23 | 420 | 23.41 / 10.39 / 8.55 / 8.67 / 8.20 / 9.39 px, 120 labels: 8.63 px (v2) | 80 labels, 8.2 px (rule fired at 120) |
-| 10 | Pluto, 2025-10-22 | 500 | 18.13 / 11.83 / 10.32 px (v2, in progress) | – |
+| 10 | Pluto, 2025-10-22 | 500 | 18.13 / 11.83 / 10.32 / 10.49 px (v2, in progress) | – |
 
 What the numbers say:
 

diff --git a/v2_new_pupil_top_video_scaling/results/README.md b/v2_new_pupil_top_video_scaling/results/README.md
@@ -22,7 +22,7 @@ snapshot with the best validation mAP after the first learning-rate drop (epochs
 | 7 `7_20251027_Pluto_spont1` | mouse B, 19.9 min, 2025-10-27 | 400 (videos 0-3 + 40 of video 4 + 20 of video 5 + 20 of video 6) | convention v2: 5.36 / 5.86 / 5.84 | **0 labels** (rule fired at 40; user decision 2026-09-29) | 5.36 px |
 | 8 `8_20251024_Pluto_spont1` | mouse B, 19.9 min, 2025-10-24 | 400 (videos 0-3 + 40 of video 4 + 20 of video 5 + 20 of video 6) | convention v2: 27.46 / 25.34 / 30.03 / 33.77 | **20 labels** (rule fired at 60; user decision 2026-09-30) | 25.34 px |
 | 9 `9_20251023_Pluto1` | mouse B, 19.9 min, 2025-10-23 | 420 (videos 0-3 + 40 of video 4 + 20 each of videos 5, 6, 8) | convention v2: 23.41 / 10.39 / 8.55 / 8.67 / 8.20 / 9.39 / 8.63 (120 labels) | **80 labels** (rule fired at 120; user decision 2026-10-01) | 8.20 px |
-| 10 `10_20251022_Pluto1` | mouse B, 19.9 min, 2025-10-22 | 500 (videos 0-3 + 40 of video 4 + 20 each of videos 5, 6, 8 + 80 of video 9) | convention v2: 18.13 / 11.83 / 10.32 | in progress (steps 1 and 2 improved the running best by 35% and 13%; step 3 next) | – |
+| 10 `10_20251022_Pluto1` | mouse B, 19.9 min, 2025-10-22 | 500 (videos 0-3 + 40 of video 4 + 20 each of videos 5, 6, 8 + 80 of video 9) | convention v2: 18.13 / 11.83 / 10.32 / 10.49 | in progress (steps 1 and 2 improved the running best by 35% and 13%; step 3 did not improve it; step 4 next) | – |
 
 `labels_to_plateau.png` / `labels_to_plateau.csv` (2026-09-30): the plateau point of every video in the sequence as one figure - labels needed (left) and the error at the plateau vs the 0-label error (right); `scripts/plot_labels_to_plateau.py`. The csv is the table above in machine-readable form and is updated when a video finishes.
 

diff --git a/v2_new_pupil_top_video_scaling/10_20251022_Pluto1/results/README.md b/v2_new_pupil_top_video_scaling/10_20251022_Pluto1/results/README.md
@@ -12,3 +12,4 @@ batch01: 73 of 160), then the test set was frozen. Training set of every step = 
 | 0 (video-9 80-label model 1014, applied unchanged) | 18.13 px | 32.0 | 8% | 60% | – |
 | 20 (shuffle 1111) | 11.83 px | 27.7 | 2% | 72% | 9003 of 57158 (15.8%) |
 | 40 (shuffle 1112) | 10.32 px | 26.1 | 4% | 92% | 6808 of 57158 (11.9%) |
+| 60 (shuffle 1113) | 10.49 px | 27.2 | 8% | 84% | pending |
